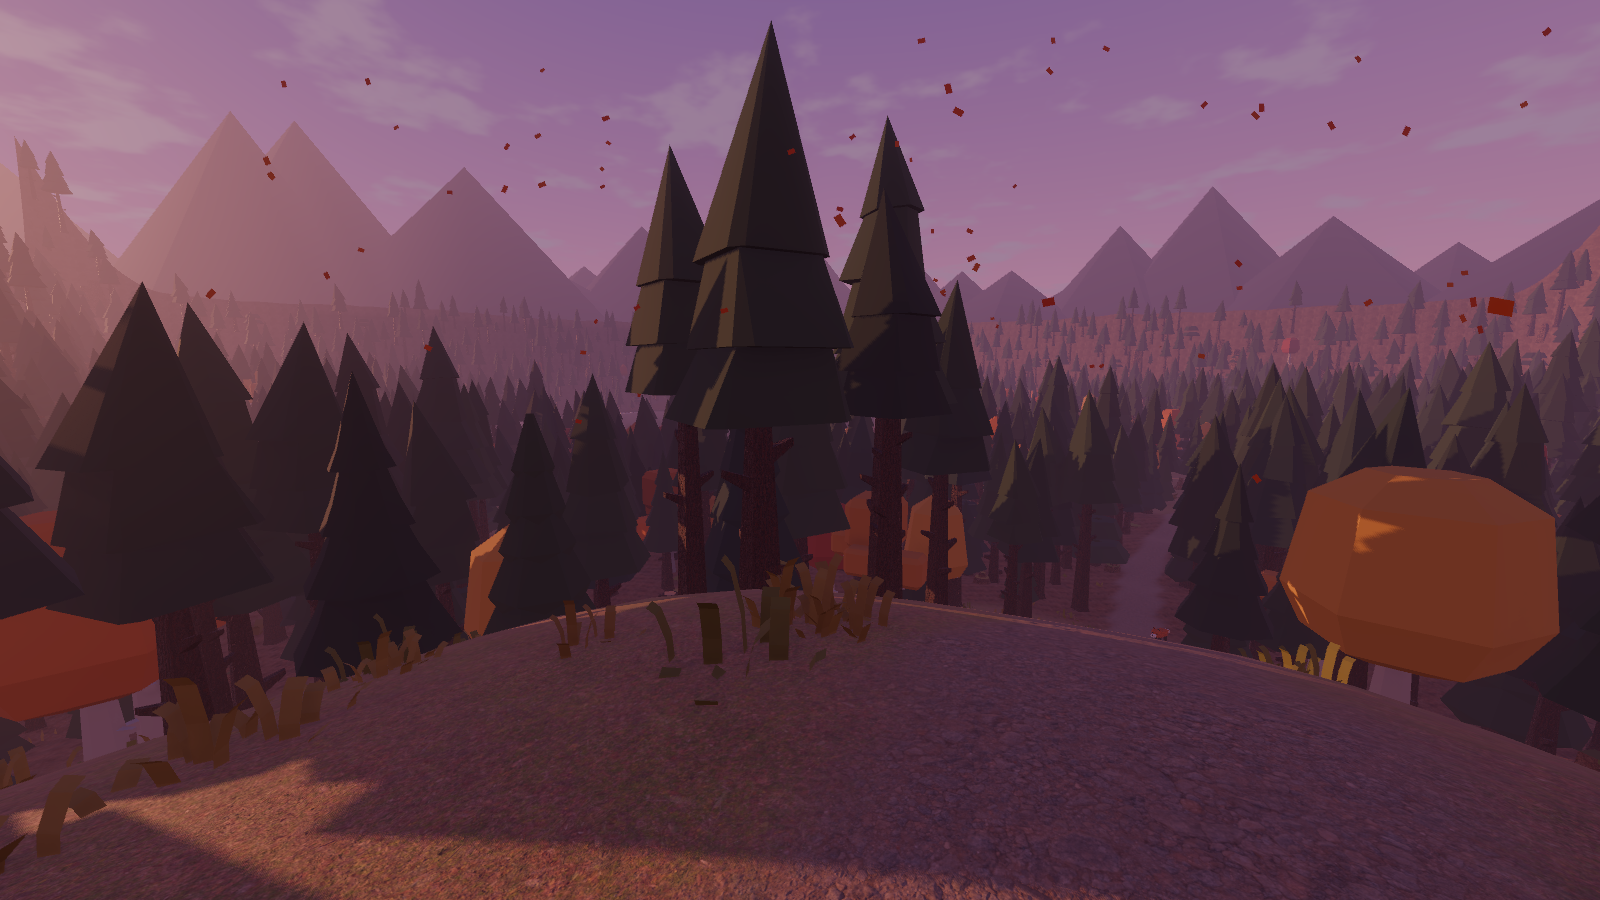
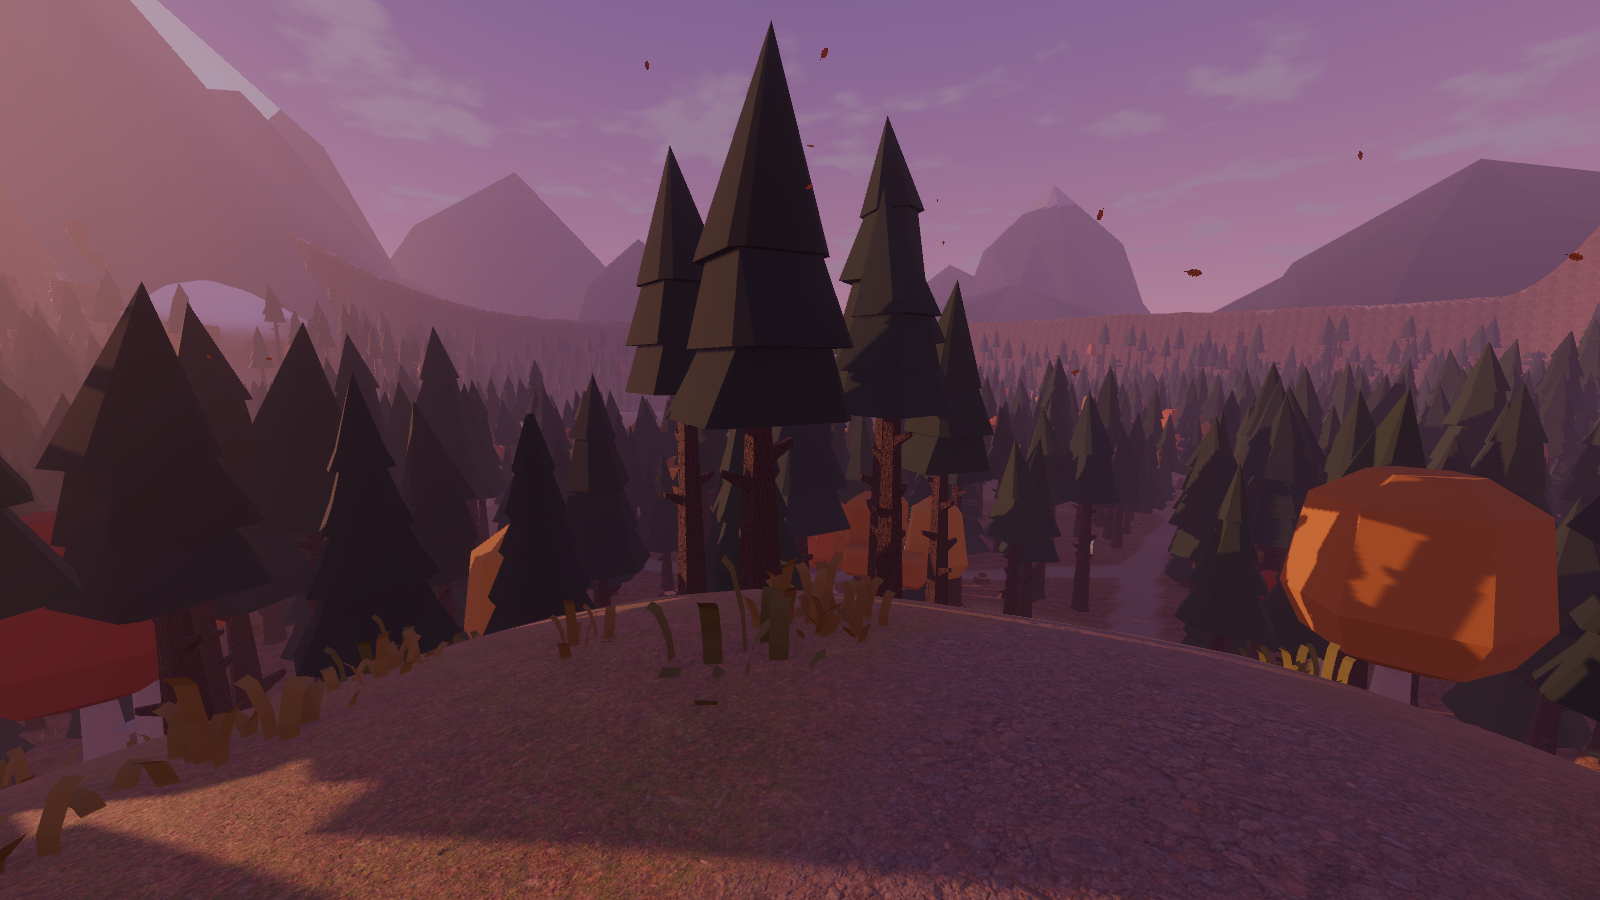
Rebuild distant mountains: fewer, varied, layered
Replace the 60 near-identical six-sided cones with two layers of about
16 mountains: a darker near ring and a lighter, taller far ring. Each
mountain has an irregular, optionally ridge-stretched base, two jittered
shoulder rings between a spire and a dome profile, an off-centre apex,
and often a lower sub-peak. Vertex colours darken toward the foot; the
tallest far peaks carry ragged snow caps. The north-east sector stays
clear for the snow massif, which now uses the same builder.
Version 0.3.2; 75 checks pass.

diff --git a/docs/SNOW_PEAK.md b/docs/SNOW_PEAK.md
@@ -52,3 +52,20 @@
 | 码头望雪山（新） | — | 129 FPS |
 
 两边差别都在 ±5% 左右，属于两次运行之间的正常波动。
+
+## v0.3.2：远山重做
+
+原来地图外一圈是 60 座几乎一样的六棱锥，颜色单一，看起来重复、呆板。现在（`scripts/world/DistantBackdrop.gd`）：
+
+- **数量少了**：只有两层、约 16 座山（近处一圈 9 座较低、颜色较深，距中心约 235–290 m；远处一圈 7 座更高、颜色较浅，约 340–440 m），一半的山旁边带一座矮一些的副峰。
+- **每座形状都不一样**：底圈 11–14 个点、半径各不相同，有的沿切线拉长成一道山脊；半山腰有两圈高低、宽窄都错开的“山肩”，轮廓线有好几处转折；山尖偏向一边，一边陡一边缓；每座山在“尖峰”和“圆顶”之间随机取一个形状。
+- **颜色有层次**：顶点色山脚深、山顶浅；远层最高的几座带雪顶，雪线每条棱高低不一；再加上远处的雾，远近一眼就分得开。
+- **东北方向留给雪山**：那个方向不放普通远山，只有雪山背后的三座雪顶主峰（也换成了同样的造山方法，雪面带一点自发光）。
+
+| 出生点望湖（暮色） | 码头望雪山 |
+|---|---|
+| ![](screenshots/m1_01_spawn_dusk.png) | ![](screenshots/m2j_01_snow_peak_from_dock.png) |
+| 西北观景点 | 高空俯瞰 |
+| ![](screenshots/m1_07_viewpoint.png) | ![](screenshots/m1_08_aerial.png) |
+
+自动检查 75 / 75 通过；同一时段和改动前对比，各机位帧率持平或略高（远山的三角形少了）。

diff --git a/README.md b/README.md
@@ -200,7 +200,7 @@ pwsh -File devtools/fetch_polyhaven.ps1
 - **世界地图与全屏**：Tab 世界地图（含其他世界的预留槽位）；F11 全屏；秋天晴天的落叶改成零星几片，原版红点保留为可切换方案；雨下得慢一点、雨丝细一点
 - **联机与中英界面**：启动大厅建房 / 用房间号加入，最多 4 人，人物、动作、门、聊天、独木舟、天气时间同步；界面默认跟随系统语言
 - **自动更新与仙境**：exe 启动时查 GitHub 新版本、一键更新；立牌换成童话风木牌；晴朗的夜里东南山坡上长出仙境林地
-- **雪山**：东北角能爬上去的雪山（山顶 39 m，27 m 以上终年积雪，林线以上无树），山顶有石堆、旗杆和看湖的长椅，背后是雪顶主峰远景
+- **雪山**：东北角能爬上去的雪山（山顶 39 m，27 m 以上终年积雪，林线以上无树），山顶有石堆、旗杆和看湖的长椅，背后是雪顶主峰远景；远处的山重做成约 16 座形状各异、分远近两层的山
 - 自动检查（75 项）与联机检查（10 项）、截图与性能测试工具
 
 ## 未实现（按里程碑）
